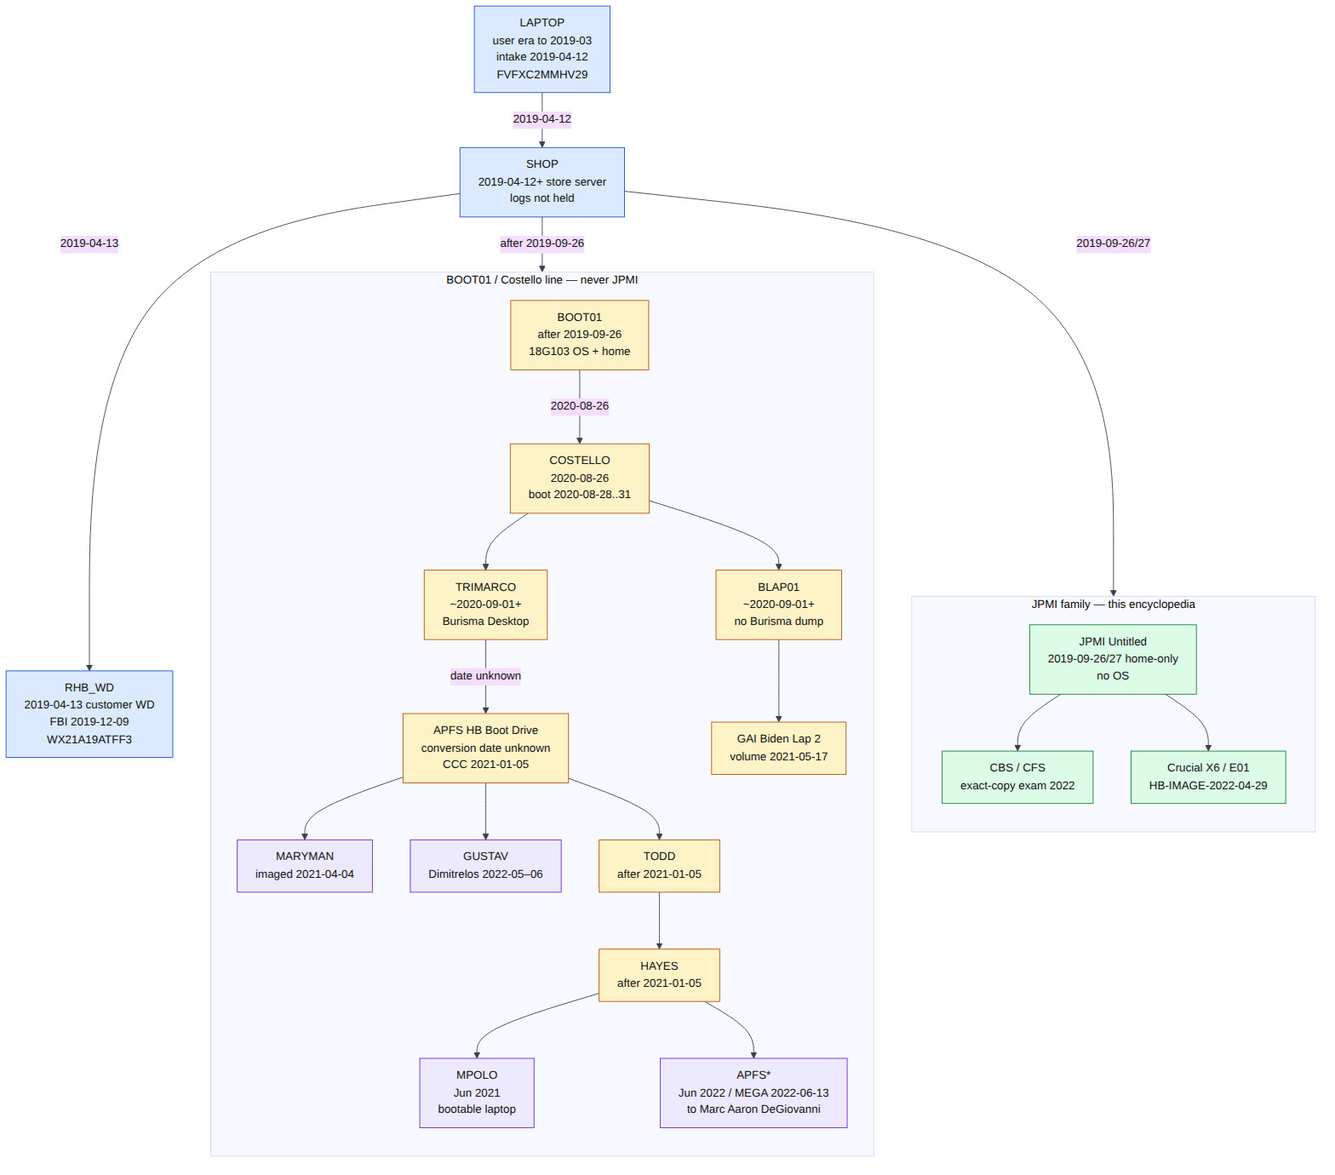
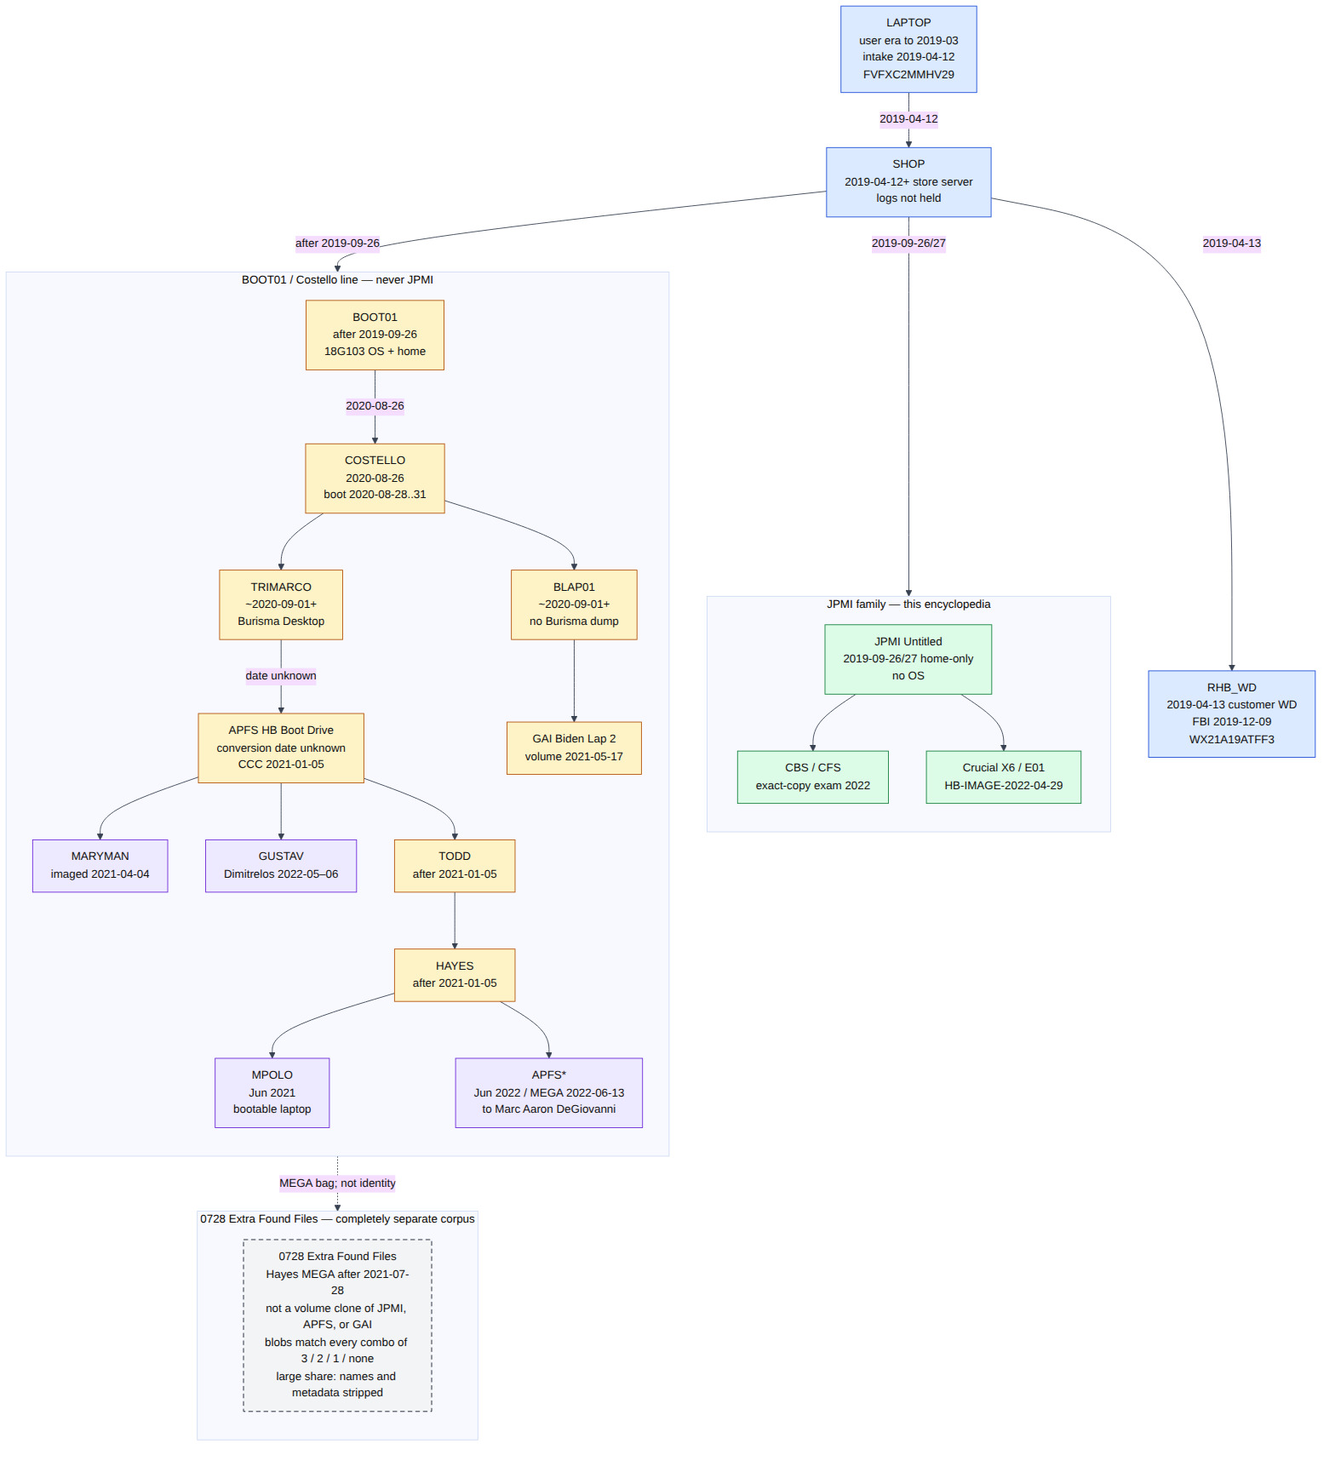
Clarify documentation regarding the 0728 Extra Found Files corpus
- Updated multiple files to emphasize that the 0728 Extra Found Files represent a completely separate corpus, distinct from JPMI, APFS, and GAI.
- Enhanced diagrams and glossary entries to reflect the new understanding of the 0728 corpus, including its origins and the nature of its contents.
- Revised language in the integrity and scope documents to clarify the relationship between the 0728 files and other evidence, ensuring accurate representation of their provenance.

These changes aim to improve the clarity and accuracy of the project's documentation regarding evidence lineage.

diff --git a/docs/COPY_LINEAGES.md b/docs/COPY_LINEAGES.md
@@ -2,34 +2,38 @@
 
 > **Hatnote.** This article distinguishes **physical devices and copies**. JPMI is one named lineage. It is not a synonym for every file that later appeared in political circulation. See [Scope](SCOPE.md).
 
-Digital provenance fails when people collapse five objects into the phrase “the laptop.” This page keeps them separate.
+Digital provenance fails when people collapse JPMI, APFS, GAI, 0728, and press extracts into the phrase “the laptop.” This page keeps them separate.
 
 ## Objects that are not the same thing
 
-| Object | What it is | Status in this encyclopedia |
-|---|---|---|
-| **Retained repair laptop** | The one of three machines left 12 Apr 2019 | Original hardware; FBI took it 9 Dec 2019; not returned to anyone, per this project’s open-questions list |
-| **Customer external HDD** | Drive brought 13 Apr 2019 for recovered data | Surrendered to FBI 9 Dec 2019 with the laptop |
-| **Store server staging** | Mac Isaac's intermediate step | His account; **logs not held** |
-| **Father / Albuquerque copy** | Preservation copy Mac Isaac describes for Sep–Oct 2019 FBI approach | Period consistent with HFS+ creation 26 Sep 2019; **physical identity unproved** |
-| **Pre-surrender exact copy** | Copy Mac Isaac made **before** FBI pickup, per Delaware Supreme Court | Strongest public anchor that a Mac Isaac direct copy existed independently of FBI custody |
-| **BOOT01** | Shop copy containing Mojave **18G103**, created **after 26 Sep 2019** | Ancestor of COSTELLO / APFS / GAI. Payload mtimes 19–21 Sep are Apple package dates, not create date. [Branch splits](BRANCH_DEVIATIONS.md) |
-| **Costello copy (COSTELLO)** | Aug 2020 transfer of **BOOT01** (or a clone) to Giuliani’s attorney | **Never JPMI.** NY Mag: Costello **booted** to login **Robert Hunter**. Host/monitor writes **28–31 Aug 2020** on APFS/GAI only |
-| **NY Post material** | Published 14 Oct 2020 via Giuliani | Public event; not a disk serial |
-| **CBS / CFS “exact copy”** | Della Rocca → CBS, examined 2022 | Independent forensic result on a Mac Isaac/FBI-lineage copy |
-| **Sanders / JPMI media** | Della Rocca → Sanders (mailing packet) → reports in this repo | Later custody medium is the **Crucial X6**; image `HB-IMAGE-2022-04-29.E01` |
-| **Apelbaum retained copy** | Oct 2020 imaging of Mac Isaac’s still-held copy | **JPMI lineage**, not hash-identical to the X6 E01. The copy Apelbaum tried to get to Fox / Tucker. **Not** 0728 |
-| **Hayes APFS (`APFS`)** | TRIMARCO converted to APFS at an **unknown** date; CCC snapshots **5 Jan 2021** | Not a clone of JPMI `Untitled`. [Branch splits](BRANCH_DEVIATIONS.md) |
-| **MARYMAN** | Maryman imaged a related SanDisk **4 Apr 2021** | APFS-family; serial `20142M400253` |
-| **GUSTAV** | Dimitrelos / Washington Examiner **May–Jun 2022** | APFS-structure; not JPMI |
-| **TODD** (APFS working copy) | After **5 Jan 2021** | Distinct from Della Rocca→Sanders **JPMI** packet |
-| **HAYES** | After **5 Jan 2021**, from TODD | Working copies Conan Hayes then distributed |
-| **MPOLO** | **Jun 2021** (their schematic) | Hayes **bootable laptop** + later 0728. Did **not** analyze JPMI |
-| **APFS*** | **Jun 2022** / MEGA **13 Jun 2022** | Hayes image to **Marc Aaron DeGiovanni**. Not JPMI |
-| **GAI HFS+** | Truncated `Biden Lap 2` image (`GAI://`); volume activity **17 May 2021** | Full OS; same Aug 2020 ColorSync ICCs as APFS. Parallel bootable-branch rebuild. **Not** this GitHub tree |
-| **0728 Extra Found Files** | MEGA share from Hayes after 28 July 2021 | Did **not** come from the laptop files per se. Related collection; many unknown origin; some **completely unknown to the laptop**. Author FBI referral 28 Jul 2026 is **out of scope** |
-| **Marco Polo Report v4** | Published compilation (4th printing 2024) | Analyzed the Hayes **bootable APFS** machine + 0728. **Did not analyze JPMI** |
-| **This GitHub repository** | Metadata/hash witness by **459Crimes / Marc Aaron DeGiovanni** | **No source-file bytes**. [Author](AUTHOR.md) |
+
+| Object                        | What it is                                                                      | Status in this encyclopedia                                                                                                                                                            |
+| ----------------------------- | ------------------------------------------------------------------------------- | -------------------------------------------------------------------------------------------------------------------------------------------------------------------------------------- |
+| **Retained repair laptop**    | The one of three machines left 12 Apr 2019                                      | Original hardware; FBI took it 9 Dec 2019; not returned to anyone, per this project’s open-questions list                                                                              |
+| **Customer external HDD**     | Drive brought 13 Apr 2019 for recovered data                                    | Surrendered to FBI 9 Dec 2019 with the laptop                                                                                                                                          |
+| **Store server staging**      | Mac Isaac's intermediate step                                                   | His account; **logs not held**                                                                                                                                                         |
+| **Father / Albuquerque copy** | Preservation copy Mac Isaac describes for Sep–Oct 2019 FBI approach             | Period consistent with HFS+ creation 26 Sep 2019; **physical identity unproved**                                                                                                       |
+| **Pre-surrender exact copy**  | Copy Mac Isaac made **before** FBI pickup, per Delaware Supreme Court           | Strongest public anchor that a Mac Isaac direct copy existed independently of FBI custody                                                                                              |
+| **BOOT01**                    | Shop copy containing Mojave **18G103**, created **after 26 Sep 2019**           | Ancestor of COSTELLO / APFS / GAI. Payload mtimes 19–21 Sep are Apple package dates, not create date. [Branch splits](BRANCH_DEVIATIONS.md)                                            |
+| **Costello copy (COSTELLO)**  | Aug 2020 transfer of **BOOT01** (or a clone) to Giuliani’s attorney             | **Never JPMI.** NY Mag: Costello **booted** to login **Robert Hunter**. Host/monitor writes **28–31 Aug 2020** on APFS/GAI only                                                        |
+| **NY Post material**          | Published 14 Oct 2020 via Giuliani                                              | Public event; not a disk serial                                                                                                                                                        |
+| **CBS / CFS “exact copy”**    | Della Rocca → CBS, examined 2022                                                | Independent forensic result on a Mac Isaac/FBI-lineage copy                                                                                                                            |
+| **Sanders / JPMI media**      | Della Rocca → Sanders (mailing packet) → reports in this repo                   | Later custody medium is the **Crucial X6**; image `HB-IMAGE-2022-04-29.E01`                                                                                                            |
+| **Apelbaum retained copy**    | Oct 2020 imaging of Mac Isaac’s still-held copy                                 | **JPMI lineage**, not hash-identical to the X6 E01. The copy Apelbaum tried to get to Fox / Tucker. **Not** 0728                                                                       |
+| **Hayes APFS (**`APFS`**)**   | TRIMARCO converted to APFS at an **unknown** date; CCC snapshots **5 Jan 2021** | Not a clone of JPMI `Untitled`. [Branch splits](BRANCH_DEVIATIONS.md)                                                                                                                  |
+| **MARYMAN**                   | Maryman imaged a related SanDisk **4 Apr 2021**                                 | APFS-family; serial `20142M400253`                                                                                                                                                     |
+| **GUSTAV**                    | Dimitrelos / Washington Examiner **May–Jun 2022**                               | APFS-structure; not JPMI                                                                                                                                                               |
+| **TODD** (APFS working copy)  | After **5 Jan 2021**                                                            | Distinct from Della Rocca→Sanders **JPMI** packet                                                                                                                                      |
+| **HAYES**                     | After **5 Jan 2021**, from TODD                                                 | Working copies Conan Hayes then distributed                                                                                                                                            |
+| **MPOLO**                     | **Jun 2021** (their schematic)                                                  | Hayes **bootable laptop** + later 0728. Did **not** analyze JPMI                                                                                                                       |
+| **APFS***                     | **Jun 2022** / MEGA **13 Jun 2022**                                             | Hayes image to **Marc Aaron DeGiovanni**. Not JPMI                                                                                                                                     |
+| **GAI HFS+**                  | Truncated `Biden Lap 2` image (`GAI://`); volume activity **17 May 2021**       | Full OS; same Aug 2020 ColorSync ICCs as APFS. Parallel bootable-branch rebuild. **Not** this GitHub tree                                                                              |
+| **0728 Extra Found Files**    | Hayes MEGA bag after **28 July 2021**                                           | **Completely separate corpus** — not a clone of JPMI, APFS, or GAI. Blobs match **every combination** of those three (3, 2, 1, or none). Large share: original names and metadata stripped; provenance unknown. Out of scope for JPMI tables |
+| **Marco Polo Report v4**      | Published compilation (4th printing 2024)                                       | Analyzed the Hayes **bootable APFS** machine + 0728. **Did not analyze JPMI**                                                                                                          |
+| **This GitHub repository**    | Metadata/hash witness by **459Crimes / Marc Aaron DeGiovanni**                  | **No source-file bytes**. [Author](AUTHOR.md)                                                                                                                                          |
+
+
+
 
 ## Diagram
 
@@ -37,11 +41,13 @@ Digital provenance fails when people collapse five objects into the phrase “th
 ```mermaid
 %% Canonical named copy graph.
 %% JPMI is not an ancestor of COSTELLO, TRIMARCO, APFS, HAYES, MPOLO, or APFS*.
+%% 0728 is a separate corpus (Hayes MEGA bag), not a clone of JPMI, APFS, or GAI.
 flowchart TB
   classDef shop fill:#dbeafe,stroke:#1d4ed8,color:#111
   classDef jpmi fill:#dcfce7,stroke:#15803d,color:#111
   classDef boot fill:#fef3c7,stroke:#b45309,color:#111
   classDef exam fill:#ede9fe,stroke:#6d28d9,color:#111
+  classDef side fill:#f3f4f6,stroke:#111827,stroke-dasharray: 6 4,color:#111
 
   LAPTOP["LAPTOP<br/>user era to 2019-03<br/>intake 2019-04-12<br/>FVFXC2MMHV29"]:::shop
   SHOP["SHOP<br/>2019-04-12+ store server<br/>logs not held"]:::shop
@@ -70,6 +76,11 @@ flowchart TB
     APFSstar["APFS*<br/>Jun 2022 / MEGA 2022-06-13<br/>to Marc Aaron DeGiovanni"]:::exam
   end
 
+  subgraph SIDE["0728 Extra Found Files — completely separate corpus"]
+    direction TB
+    EFF["0728 Extra Found Files<br/>Hayes MEGA after 2021-07-28<br/>not a volume clone of JPMI, APFS, or GAI<br/>blobs match every combo of 3 / 2 / 1 / none<br/>large share: names and metadata stripped"]:::side
+  end
+
   LAPTOP -->|2019-04-12| SHOP
   SHOP -->|2019-04-13| RHB_WD
   SHOP -->|2019-09-26/27| JPMI
@@ -87,14 +98,36 @@ flowchart TB
   TODD --> HAYES
   HAYES --> MPOLO
   HAYES --> APFSstar
+  HAYES -.->|MEGA bag; not identity| EFF
 ```
 
 Export: [SVG](diagrams/named_graph.svg) · [JPG](diagrams/named_graph.jpg)
 <!-- /diagram:named_graph -->
 
+## 0728 is a separate corpus
+
+Treat **0728 Extra Found Files** as a **completely separate corpus**. The dashed edge from **HAYES** is a **MEGA distribution path** (after **28 July 2021**). It is not volume identity: 0728 is not a clone of JPMI `Untitled`, not a clone of APFS `HB Boot Drive`, and not a clone of GAI `Biden Lap 2`.
+
+**Observed.** SHA-256 matching of 0728 blobs against those three inventories is **not** a single overlap class. The same bag contains media that matches **all three**, each **pair**, each **singleton**, and **none** of JPMI / APFS / GAI.
+
+| 0728 blob vs JPMI, APFS, GAI | What that can mean |
+|---|---|
+| All three | Same bytes exist in JPMI, APFS, and GAI. Shared `roberthunter` ancestry at content level; 0728 is still not those disks |
+| Each pair only | JPMI∩APFS, JPMI∩GAI, or APFS∩GAI, absent from the third. Content-level cousins, not a fourth volume |
+| Exactly one | Present in JPMI only, APFS only, or GAI only |
+| None of the three | Unknown to the three named laptop-derived inventories |
+
+**Observed.** A large portion of 0728 files has **original names and filesystem metadata stripped**. Those rows do not carry a usable path/time provenance even when the bytes hash to a known object. When they also hash to none of the three, origin is unknown.
+
+**Interpretation.** Mixing 0728 into a sentence about JPMI, APFS, or GAI as if it were “the laptop” is a category error. Marco Polo used this sidecar **plus** the Hayes bootable laptop (**MPOLO**). That still does not make 0728 a JPMI table.
+
+**Limitation.** This encyclopedia does not republish 0728 inventories. The author’s FBI referral on 0728 as potentially hacked is **out of scope**. See [Scope](SCOPE.md) · [Integrity](INTEGRITY.md) · [Author](AUTHOR.md).
+
+
+
 ## What “direct copy” means here
 
-**JPMI belongs to a Mac Isaac-made lineage that existed before the original laptop and customer drive left his possession** (court-recited exact copy on 9 Dec 2019). The destination HFS+ volume was created **26 Sep 2019** by **formatting `Untitled` and copying `roberthunter` as files**, then later **volume-cloned** onto the X6. That is not a serial-number chain from the 12 April laptop SSD to serial `2145E498755E`. Method: [COPY_METHOD](COPY_METHOD.md).
+**JPMI belongs to a Mac Isaac-made lineage that existed before the original laptop and customer drive left his possession** (court-recited exact copy on 9 Dec 2019). The destination HFS+ volume was created **26 Sep 2019** by **formatting** `Untitled` **and copying** `roberthunter` **as files**, then later **volume-cloned** onto the X6. That is not a serial-number chain from the 12 April laptop SSD to serial `2145E498755E`. Method: [COPY_METHOD](COPY_METHOD.md).
 
 The Costello/Giuliani/Hayes **bootable** copies descend from **BOOT01** (18G103, after 26 Sep 2019), **not** from examined `Untitled`. **Costello never received JPMI.** Split points: [Where the copies split](BRANCH_DEVIATIONS.md).
 
@@ -116,3 +149,4 @@ Unknown. Mac Isaac describes copies he made. The public record does not establis
 - [Mailing packet](MAILING_PACKET.md)
 - [Marco Polo v4](MARCO_POLO.md)
 - [Integrity](INTEGRITY.md)
+

diff --git a/docs/SCOPE.md b/docs/SCOPE.md
@@ -22,7 +22,7 @@ Questions this repo is built to answer:
 | Cross-corpus hash matching to other “laptop” dumps | Separate comparative project; this repo is JPMI-only |
 | GAI (`GAI://`, image `hb.img`) | Separate truncated HFS+ image in the broader RHB work; not this GitHub tree |
 | **APFS** / **MARYMAN** / **GUSTAV** / **TODD** / **HAYES** / **MPOLO** / **APFS*** | Costello-line APFS family after **5 Jan 2021**. Marco Polo used **MPOLO** (Hayes **bootable laptop**, Jun 2021). This author holds **APFS*** (Jun 2022). **Not** JPMI |
-| **Extra Found Files / 0728** | MEGA share from Hayes after 28 July 2021. Did **not** come from the laptop files per se. The author’s FBI referral (`FBI_0728_Source_Attribution_Referral_FINAL_2026-07-28.pdf`) treats it as **potentially hacked**; **not** analyzed here. See [Author](AUTHOR.md) |
+| **Extra Found Files / 0728** | Completely separate corpus (Hayes MEGA after 28 July 2021). Not a clone of JPMI, APFS, or GAI. Blobs match every combination of those three, plus a large stripped-name share of unknown provenance. FBI referral **not** analyzed here. [Copy lineages](COPY_LINEAGES.md#0728-is-a-separate-corpus) |
 | *Beyond the Diary* / digital diary release | Separate author publications ([BeyondTheDiary.com](https://BeyondTheDiary.com), [ShowersWithMy.Dad](https://ShowersWithMy.Dad)); **not** JPMI analysis. See [Author](AUTHOR.md) |
 | Publishing E01 or user-file bytes | Restricted source; this tree is a metadata/hash witness |
 | Retrying the political media war of 2020 | Not required to describe the disk |

diff --git a/docs/BRANCH_DEVIATIONS.md b/docs/BRANCH_DEVIATIONS.md
@@ -30,11 +30,13 @@ Mac Isaac made **more than one** preservation copy. The examined JPMI volume is 
 ```mermaid
 %% Canonical named copy graph.
 %% JPMI is not an ancestor of COSTELLO, TRIMARCO, APFS, HAYES, MPOLO, or APFS*.
+%% 0728 is a separate corpus (Hayes MEGA bag), not a clone of JPMI, APFS, or GAI.
 flowchart TB
   classDef shop fill:#dbeafe,stroke:#1d4ed8,color:#111
   classDef jpmi fill:#dcfce7,stroke:#15803d,color:#111
   classDef boot fill:#fef3c7,stroke:#b45309,color:#111
   classDef exam fill:#ede9fe,stroke:#6d28d9,color:#111
+  classDef side fill:#f3f4f6,stroke:#111827,stroke-dasharray: 6 4,color:#111
 
   LAPTOP["LAPTOP<br/>user era to 2019-03<br/>intake 2019-04-12<br/>FVFXC2MMHV29"]:::shop
   SHOP["SHOP<br/>2019-04-12+ store server<br/>logs not held"]:::shop
@@ -63,6 +65,11 @@ flowchart TB
     APFSstar["APFS*<br/>Jun 2022 / MEGA 2022-06-13<br/>to Marc Aaron DeGiovanni"]:::exam
   end
 
+  subgraph SIDE["0728 Extra Found Files — completely separate corpus"]
+    direction TB
+    EFF["0728 Extra Found Files<br/>Hayes MEGA after 2021-07-28<br/>not a volume clone of JPMI, APFS, or GAI<br/>blobs match every combo of 3 / 2 / 1 / none<br/>large share: names and metadata stripped"]:::side
+  end
+
   LAPTOP -->|2019-04-12| SHOP
   SHOP -->|2019-04-13| RHB_WD
   SHOP -->|2019-09-26/27| JPMI
@@ -80,6 +87,7 @@ flowchart TB
   TODD --> HAYES
   HAYES --> MPOLO
   HAYES --> APFSstar
+  HAYES -.->|MEGA bag; not identity| EFF
 ```
 
 Export: [SVG](diagrams/named_graph.svg) · [JPG](diagrams/named_graph.jpg)

diff --git a/docs/INTEGRITY.md b/docs/INTEGRITY.md
@@ -10,7 +10,7 @@
 
 ## Where unknown-origin files *are* attributed (not this repo)
 
-**Extra Found Files / 0728** (MEGA, Conan Hayes, after 28 July 2021) did **not** come from the laptop files per se. It is a large collection **related to** laptop material: many items of **unknown origin**, and some **completely unknown to the laptop**.
+**Extra Found Files / 0728** (MEGA, Conan Hayes, after 28 July 2021) is a **completely separate corpus**. It is not a clone of JPMI, APFS, or GAI. The same bag contains blobs that match **all three**, each **pair**, each **singleton**, and **none** of those inventories. A large portion has **original names and metadata stripped**. See [Copy lineages](COPY_LINEAGES.md#0728-is-a-separate-corpus).
 
 The author submitted an FBI source-attribution referral on 0728 as **potentially hacked** (`FBI_0728_Source_Attribution_Referral_FINAL_2026-07-28.pdf`, 28 July 2026). That referral is **outside this JPMI analysis**; it is described on [Author](AUTHOR.md). It is not a finding about Quote #7469, the Mac Shop recovery, the FBI-seized MacBook/WD pair, or the Crucial X6 / E01 reports.
 

diff --git a/docs/diagrams/README.md b/docs/diagrams/README.md
@@ -11,7 +11,7 @@ python3 scripts/render_diagrams.py
 
 | File | What it shows |
 |---|---|
-| [named_graph.mmd](named_graph.mmd) | Full named copy graph (JPMI family vs BOOT01/Costello line) |
+| [named_graph.mmd](named_graph.mmd) | Full named copy graph (JPMI family vs BOOT01/Costello line vs **0728** sidecar) |
 | [shop_outbound.mmd](shop_outbound.mmd) | 2019 shop products: RHB_WD, JPMI, BOOT01 → COSTELLO |
 | [shop_recovery.mmd](shop_recovery.mmd) | April 2019 laptop → store server → WD / later copies |
 | [jpmi_family.mmd](jpmi_family.mmd) | Della Rocca → CBS and Sanders packet |
@@ -22,4 +22,4 @@ python3 scripts/render_diagrams.py
 | [x6_gpt.mmd](x6_gpt.mmd) | Crucial X6 GPT / EFI / HFS+ `Untitled` |
 | [pipeline.mmd](pipeline.mmd) | Export scripts |
 
-Green = JPMI family. Amber = BOOT01 / Costello bootable line. Blue = shop / hardware. Violet = examiner or later-author copies.
+Green = JPMI family. Amber = BOOT01 / Costello bootable line. Blue = shop / hardware. Violet = examiner or later-author copies. Gray dashed = **0728 Extra Found Files** (separate corpus, not a clone).

diff --git a/docs/GLOSSARY.md b/docs/GLOSSARY.md
@@ -86,7 +86,7 @@ Small GPT partition used for firmware/boot machinery. JPMI has one (GUID `54bcfb
 
 ## Extra Found Files (0728)
 
-Out of scope. MEGA share from **Conan Hayes after 28 July 2021**. Did **not** come from the laptop files per se: a large collection **related to** laptop material, with many items of unknown origin and some **completely unknown to the laptop**. Marco Polo had this sidecar set in addition to Hayes’s bootable APFS machine; it did **not** analyze JPMI. Author’s FBI referral (`FBI_0728_Source_Attribution_Referral_FINAL_2026-07-28.pdf`) is **not** analyzed here. See [Scope](SCOPE.md) and [Author](AUTHOR.md).
+**Completely separate corpus** from JPMI, APFS, and GAI. Hayes MEGA bag after **28 July 2021** (dashed distribution edge from **HAYES**, not volume identity). Blobs match **every combination** of those three inventories (all three, each pair, each singleton, and none). A large share has **original names and metadata stripped**, so path provenance is unknown. Out of scope. See [Copy lineages](COPY_LINEAGES.md#0728-is-a-separate-corpus).
 
 ## `.emlx`
 
